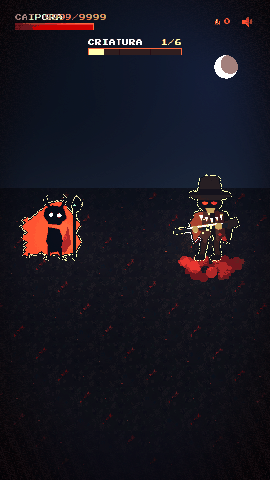
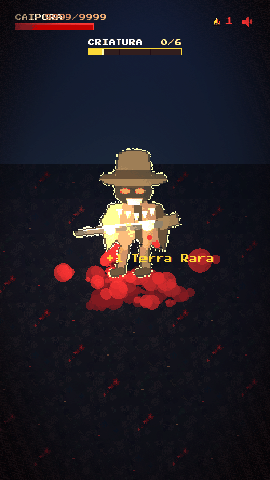
site update 0.1

diff --git a/site/css/main.css b/site/css/main.css
@@ -292,10 +292,15 @@ a {
   filter: drop-shadow(0 0 8px rgba(255, 69, 0, 0.35));
 }
 
+/* Header = barra de controles coerente: GitHub, idioma e JOGAR compartilham a
+   MESMA altura (--nav-ctrl), cantos retos e tratamento de borda idêntico. Só o
+   JOGAR é preenchido (ação primária); os demais são fantasmas. Espaçamento
+   uniforme entre todos os itens. */
 .nav-links {
   display: flex;
   align-items: center;
-  gap: 1.25rem;
+  gap: 0.5rem;
+  --nav-ctrl: 40px;
 }
 
 .nav-link {
@@ -312,54 +317,68 @@ a {
   color: var(--accent-flame);
 }
 
-/* No mobile o "Jogar" do nav some — a hero já tem o CTA grande */
+/* JOGAR no header — compacto, mesma altura dos demais controles.
+   No mobile some (a hero já tem o CTA grande). */
 .nav-links .btn {
   display: none;
+  height: var(--nav-ctrl);
+  padding: 0 1.25rem;
 }
 
+/* GitHub — botão-ícone quadrado, fantasma */
 .nav-github {
   display: inline-flex;
   align-items: center;
+  justify-content: center;
+  width: var(--nav-ctrl);
+  height: var(--nav-ctrl);
   color: var(--text-secondary);
-  opacity: 0.7;
-  transition: color 0.2s ease, opacity 0.2s ease, transform 0.1s ease;
+  border: 1px solid rgba(255, 255, 255, 0.1);
+  transition: color 0.2s ease, border-color 0.2s ease, background-color 0.2s ease;
 }
 
 .nav-github:hover {
   color: var(--accent-flame);
-  opacity: 1;
-  transform: scale(1.08);
+  border-color: var(--accent-flame);
+  background-color: rgba(255, 69, 0, 0.08);
 }
 
+.nav-github svg {
+  width: 18px;
+  height: 18px;
+}
+
+/* Idioma — dois botões de bandeira, mesmo padrão dos controles */
 .lang-selector {
   display: flex;
-  align-items: stretch;
-  align-self: stretch;
-  gap: 4px;
+  align-items: center;
+  gap: 0.5rem;
 }
 
 .lang-btn {
   box-sizing: border-box;
-  display: flex;
+  display: inline-flex;
   align-items: center;
+  justify-content: center;
+  width: var(--nav-ctrl);
+  height: var(--nav-ctrl);
+  padding: 0;
   background: none;
-  border: 1px solid transparent;
+  border: 1px solid rgba(255, 255, 255, 0.1);
   cursor: pointer;
-  padding: 3px;
-  border-radius: 3px;
-  opacity: 0.4;
-  transition: opacity 0.15s ease, border-color 0.15s ease, transform 0.1s ease;
-  line-height: 0;
+  opacity: 0.55;
+  transition: opacity 0.2s ease, border-color 0.2s ease, background-color 0.2s ease;
 }
 
 .lang-btn:hover {
-  opacity: 0.85;
-  transform: scale(1.08);
+  opacity: 0.9;
+  border-color: rgba(255, 255, 255, 0.25);
 }
 
 .lang-btn--active {
   opacity: 1;
   border-color: var(--accent-flame);
+  background-color: rgba(255, 69, 0, 0.08);
 }
 
 .lang-btn:focus-visible {
@@ -369,8 +388,8 @@ a {
 
 .flag-img {
   display: block;
-  height: 100%;
-  width: auto;
+  width: 24px;
+  height: 16px;
   image-rendering: pixelated;
   image-rendering: crisp-edges;
 }
